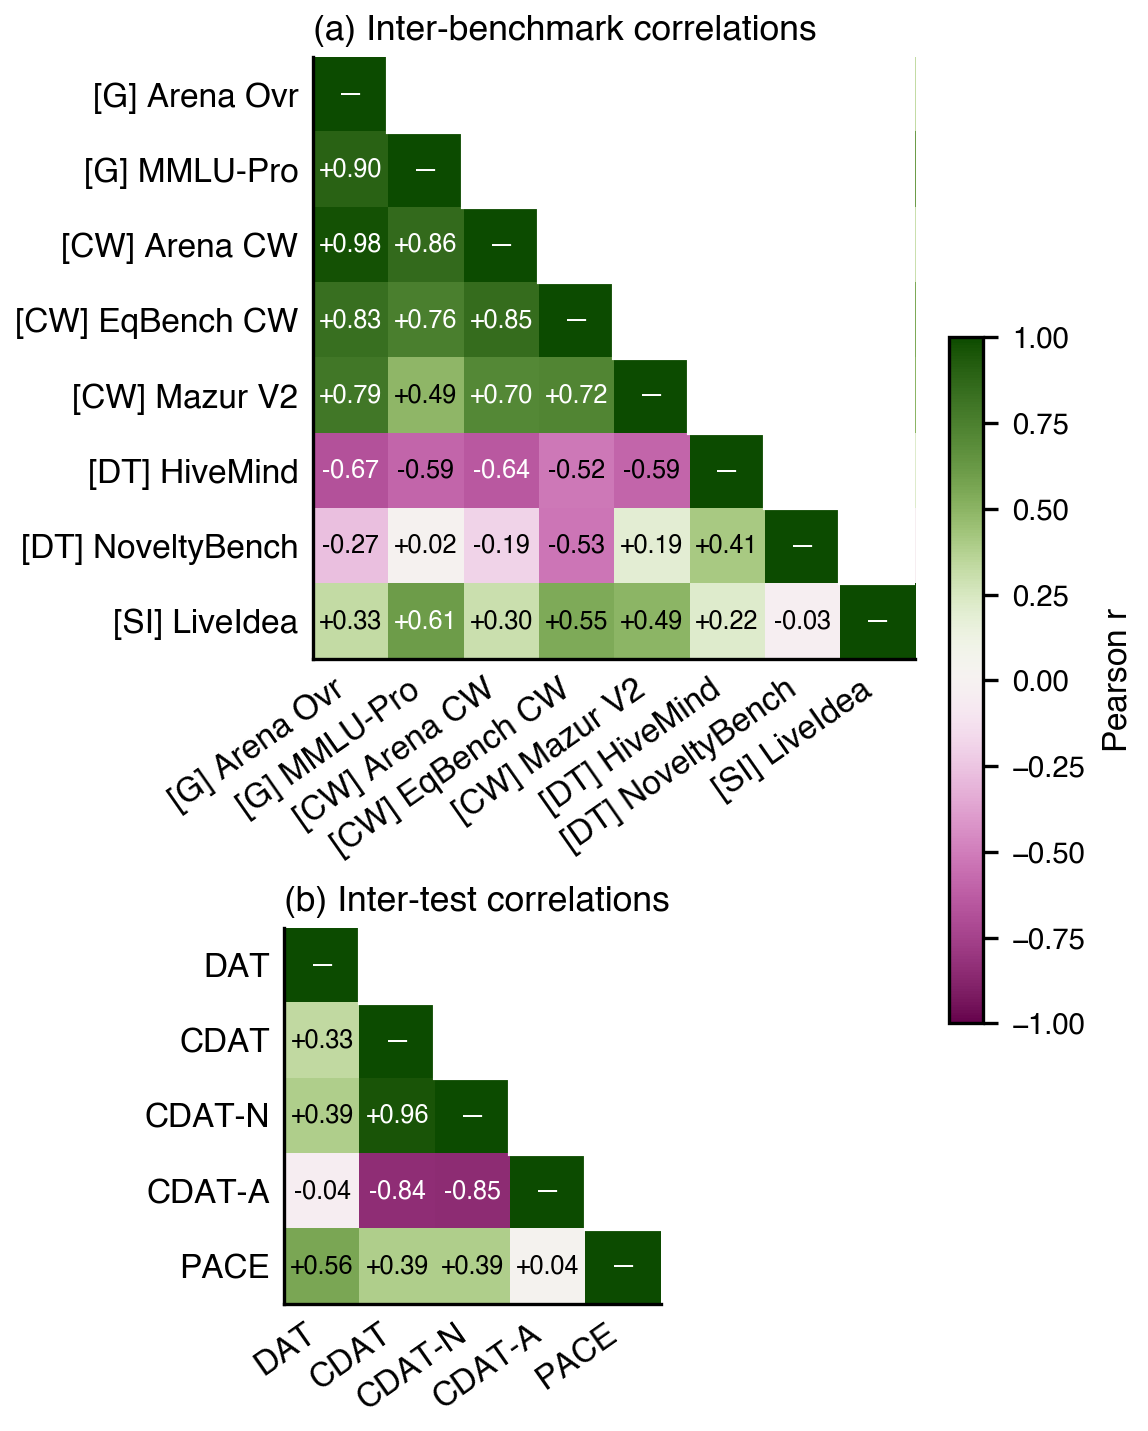
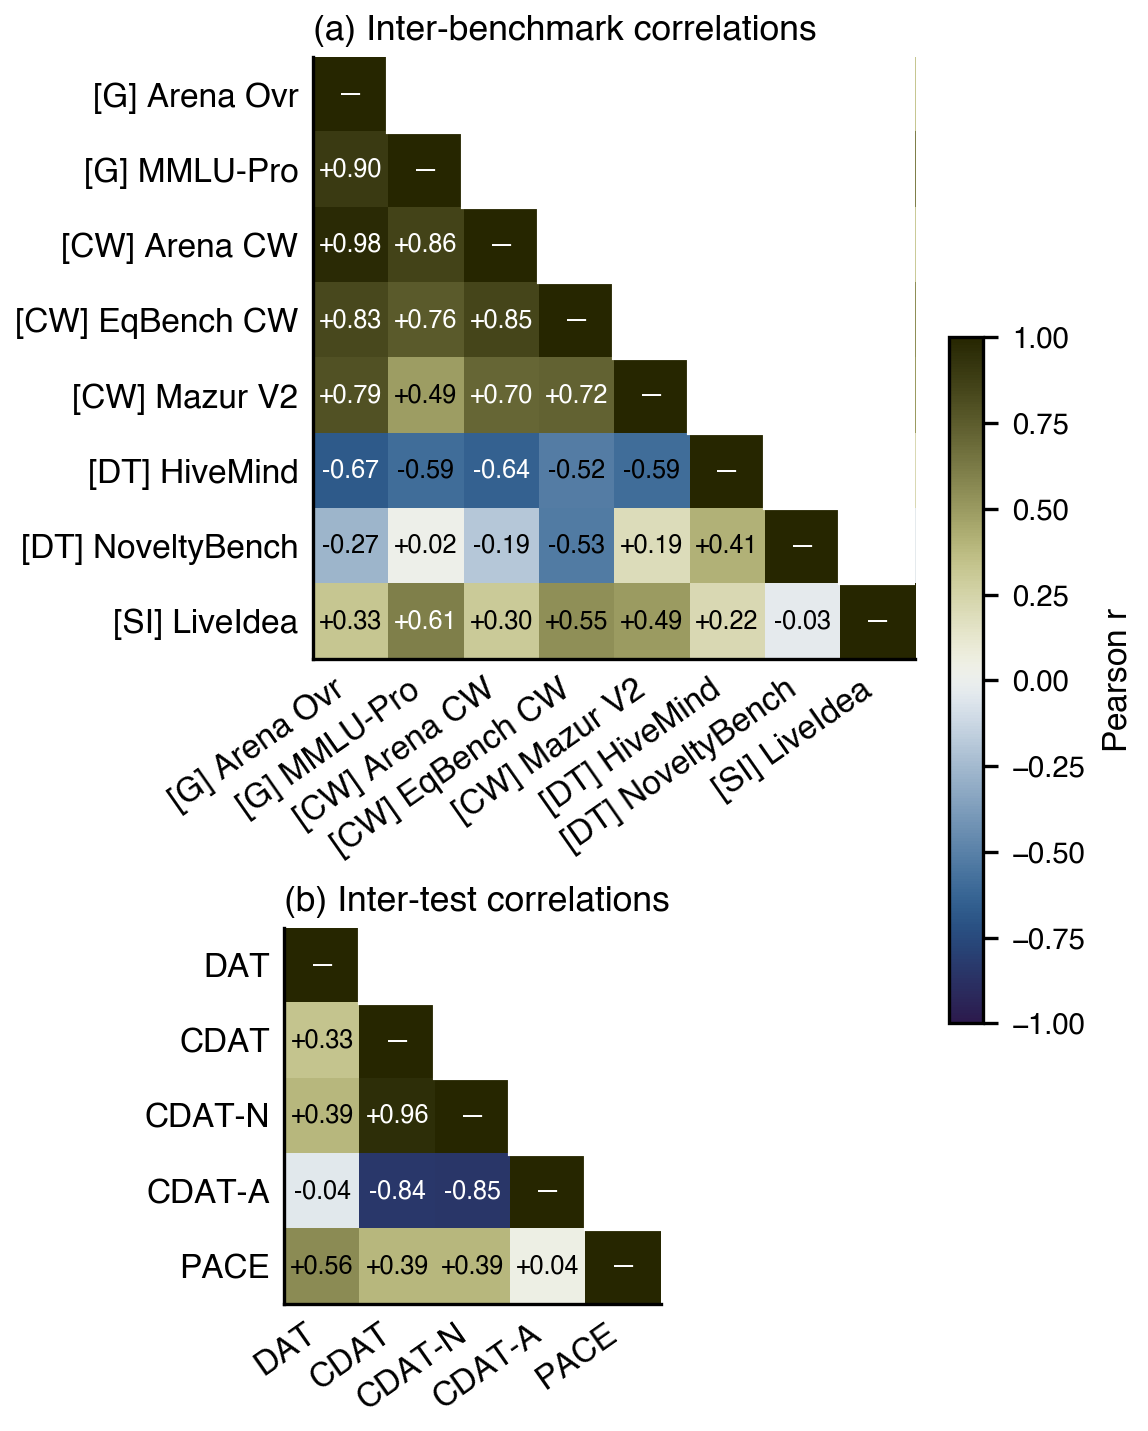
fig_benchmark_correlations: switch heatmap to cmc.broc (blue/brown diverging)
Replaces cmc.bam (green/magenta) with cmc.broc — perceptually uniform,
colorblind-safe, and quieter on the page.

diff --git a/src/dat_eval/scripts/make_figures.py b/src/dat_eval/scripts/make_figures.py
@@ -922,7 +922,7 @@ def fig_benchmark_correlations(benchmarks):
         n = len(labels)
         display = np.where(np.isnan(mat), 0.0, mat)
         im = ax.imshow(display, vmin=-1, vmax=1,
-                       cmap=cmc.bam, aspect="equal")
+                       cmap=cmc.broc, aspect="equal")
         for i in range(n):
             for j in range(n):
                 if j > i:
